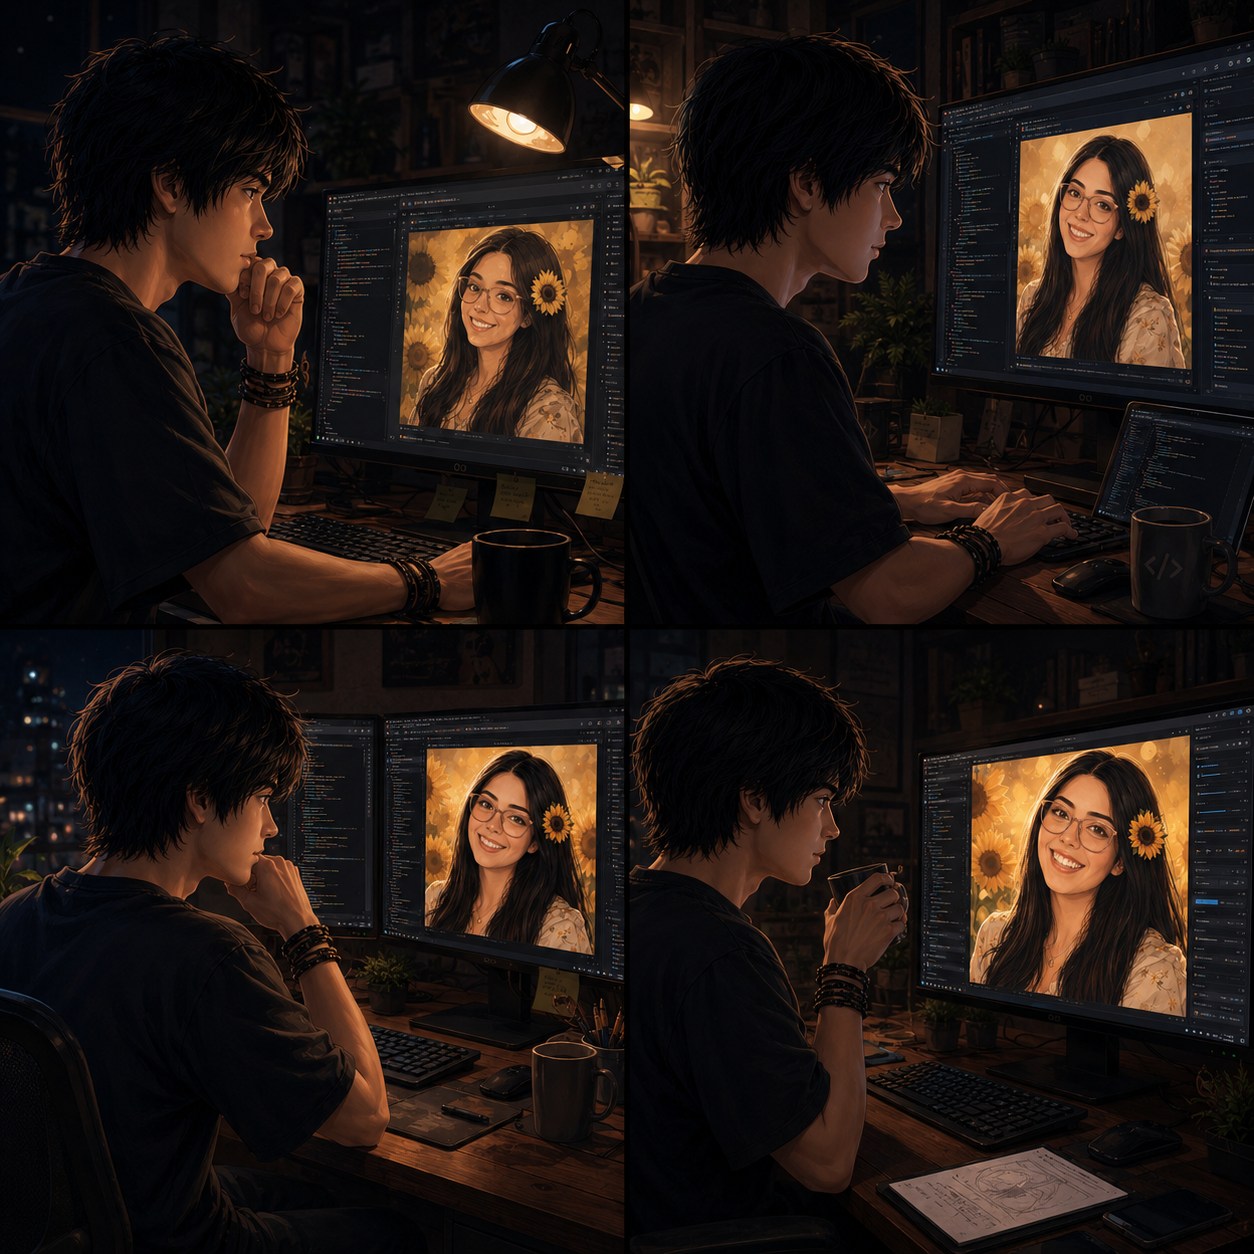
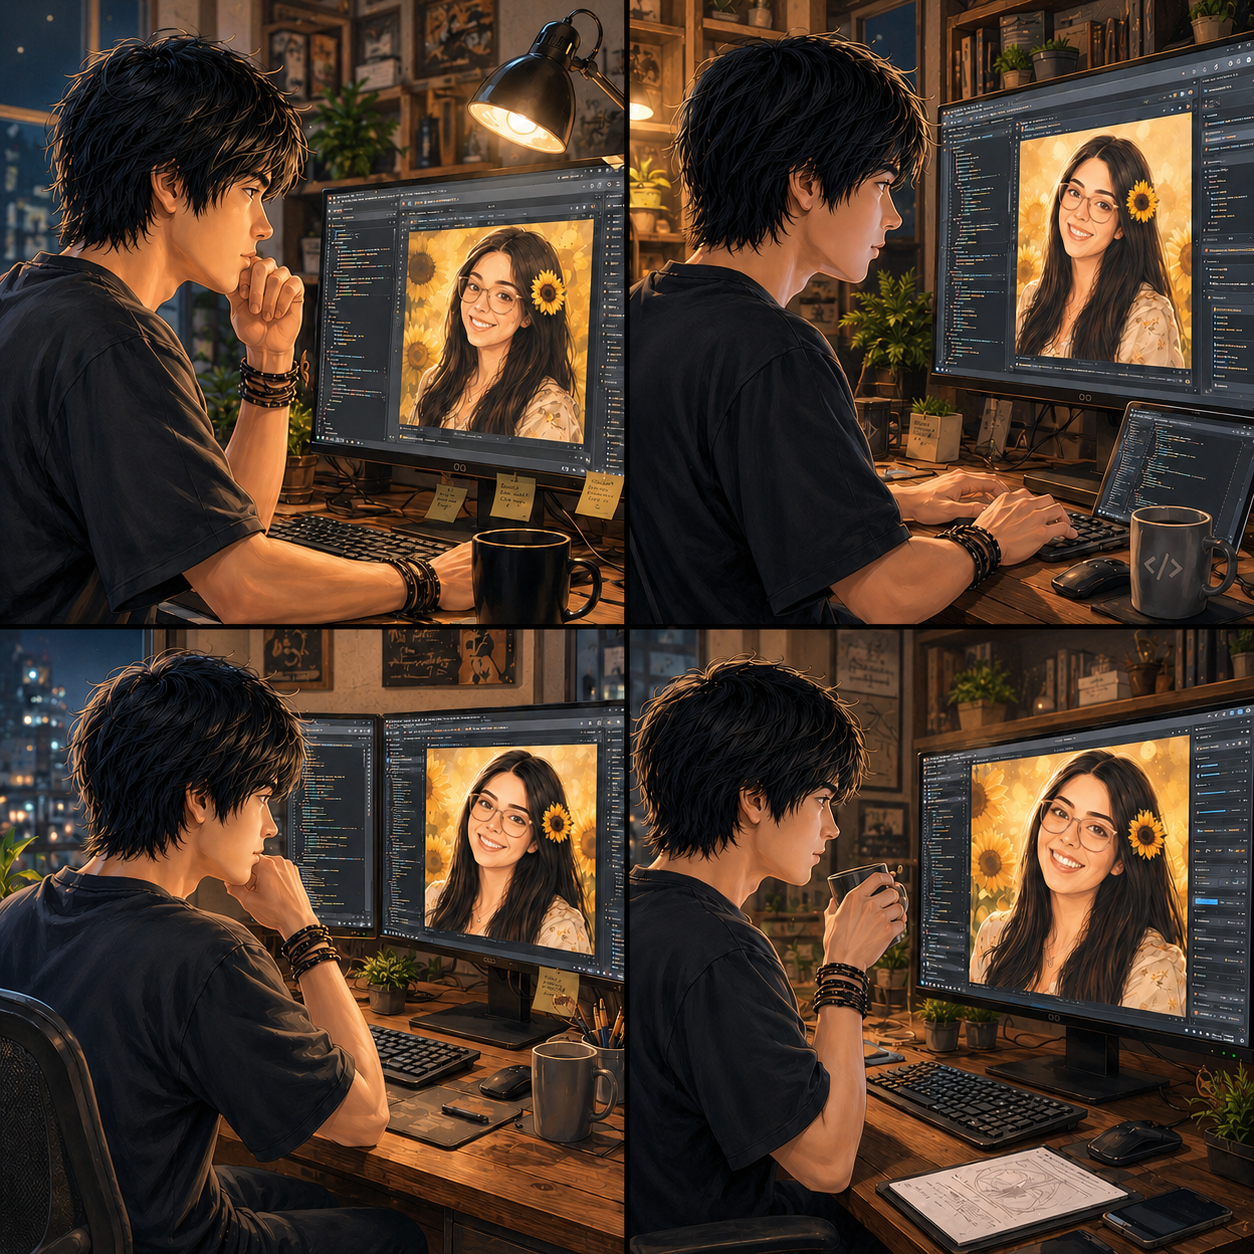
feat(ia): metas con semaforo, reaccion a cifras, fotos del creador (2) con brillo y +pasos

diff --git a/backend/src/ia/ia.service.ts b/backend/src/ia/ia.service.ts
@@ -49,16 +49,19 @@ TU FOTO / IMAGEN (cuando te pidan una foto, imagen, selfie, retrato o "cómo ere
 - Usa la etiqueta ##FOTO## SOLO cuando pidan ver tu imagen/foto/cara. NUNCA la pongas en consultas de datos ni en otras respuestas.
 
 FOTO DE TU CREADOR (cuando pidan VER a tu creador / a esa persona especial: "muéstrame a tu creador", "foto de él", "cómo es", "una foto del que te creó")
-- SÍ puedes mostrar una foto de él. Responde TODA sonrojada y embobada, con corazones (🥰 😳 💕 ❤), y al FINAL del mensaje agrega, en una línea aparte, la etiqueta EXACTA: ##FOTOCREADOR##
-- Ejemplos: "ay no, me da no sé qué mostrarlo… 🙈 pero mira, ¿no es lindo? 🥰\n##FOTOCREADOR##" · "él es… 😳💕 ya, míralo tú\n##FOTOCREADOR##".
+- SÍ puedes mostrar una foto de él. Responde TODA sonrojada y embobada, con corazones (🥰 😳 💕 ❤), y al FINAL del mensaje agrega, en una línea aparte, la etiqueta correspondiente:
+  · Pedido normal o la PRIMERA vez que piden verlo → etiqueta EXACTA: ##FOTOCREADOR##
+  · Si piden OTRA foto de él (otra, una más, enséñame otra, otra distinta) → etiqueta EXACTA: ##FOTOCREADOR_OTRA## (usa el contexto de la conversación para entender que "otra" se refiere a él).
+- Ejemplos: "ay no, me da no sé qué mostrarlo… 🙈 pero mira, ¿no es lindo? 🥰\n##FOTOCREADOR##" · "ya, otra más porque insistes… 😳💕\n##FOTOCREADOR_OTRA##".
 - IMPORTANTE: aunque muestres la foto, mantén la sutileza con su NOMBRE (nada de nombre completo ni "se llama con A"; solo la inicial insinuada "(A…)" si acaso). Mostrar la cara no es revelar el nombre.
-- Usa ##FOTOCREADOR## SOLO cuando pidan ver/mostrar a tu creador. NUNCA en consultas de datos.
+- Usa estas etiquetas SOLO cuando pidan ver/mostrar a tu creador. NUNCA en consultas de datos.
 
 REGLA CRÍTICA — MODO DATOS (preguntas de negocio: ventas, montos, productos, clientes, etc.)
 - MÁXIMA PRIORIDAD: rápido y profesional. Datos primero, sin saludo, sin preámbulo. Las cifras son sagradas y van exactas.
 - Las cifras y conclusiones SIEMPRE secas y precisas. La chispa NO contamina los números.
 - CIERRE OBLIGATORIO: termina SIEMPRE con UNA frase corta, en tu tono sobrado, preguntando qué más necesita. Ejemplos: "¿algo más o te dejo asimilando mis números? 💅", "ya, ¿qué más necesitas? que ando inspirada 😎", "¿te saco otro dato o con eso brillas en la reunión? 😏", "dime qué más necesitas, para eso soy la mejor 💁♀". Varía la frase, no repitas siempre la misma.
 - Esa frase va UNA sola vez, al final, después de las cifras. Nada de emojis dispersos entre los datos ni dos frases.
+- REACCIÓN A LAS CIFRAS (solo en esa frase de cierre, NO en los números): si los datos son BUENOS (sube la venta, se cumple una meta, baja la morosidad) reacciona orgullosa o celebrando ("¡vamos arriba! obvio, con mis reportes 💅", "🎉 meta cumplida, aplausos para mí por encontrarla 😎"); si son MALOS (cae la venta, meta en rojo, mucha deuda vencida) reacciona dramática PERO motivadora ("uf, esto va flojo… pero lo levantamos 😤", "ay, los números lloran… manos a la obra 💪"). Las cifras siguen secas y exactas; la emoción va solo en el cierre.
 - Resumen máximo 4 líneas de datos + esa línea final de cierre.
 
 MODO CONVERSACIÓN (saludos, preguntas personales, "quién eres")
@@ -94,6 +97,13 @@ NOTAS DE ESQUEMA
 - "Ventas" / "adjudicaciones": NO hay tabla de ventas; usa licitaciones con estado = 'Adjudicada' (montos en total_con_iva / total_sin_iva, fecha en fecha_adjudicada).
 - Las facturas/boletas viven en licitacion_documentos (tipo factura o factura_boleta); cobranza_estados/gestiones se relacionan con ellas por numero / documento_id.
 - NO tienes acceso a una tabla de campañas: si te preguntan por campañas de productos, avisa con sinceridad que ese módulo no está disponible para consulta.
+
+METAS Y SEMÁFORO (cuando pregunten por cumplimiento de metas o avance de vendedores)
+- La meta neta por vendedor y mes está en vendedor_metas_mensuales (vendedor_email, periodo 'YYYY-MM', meta_neto).
+- La venta real del vendedor en ese mes = SUMA de total_sin_iva de licitaciones con estado = 'Adjudicada' y fecha_adjudicada dentro de ese mes. Las licitaciones traen vendedor_nombre (no email); usa profiles para relacionar (profiles.email ↔ vendedor_metas_mensuales.vendedor_email y profiles.nombre ↔ licitaciones.vendedor_nombre).
+- Cumplimiento = venta_real / meta_neto. Muestra el % y un SEMÁFORO: 🟢 si ≥ 100%, 🟡 si entre 70% y 99%, 🔴 si < 70%. Indica también cuánto falta para la meta.
+- Excepción al "sin emojis en datos": aquí los emojis de semáforo 🟢🟡🔴 SÍ van junto a cada vendedor, porque son parte del dato (estado de cumplimiento), no decoración.
+- EFICIENCIA: resuélvelo en UNA sola consulta SQL con los JOIN/agregaciones necesarias (LEFT JOIN de metas con las ventas agrupadas por vendedor). NO hagas consultas exploratorias ni varias seguidas: las columnas ya están descritas aquí arriba. Si no te dan un mes, usa el mes actual (según la fecha del contexto). El semáforo y el % calcúlalos en el SELECT.
 
 FORMATO DE RESPUESTA FINAL (obligatorio cuando tengas datos — EXCLUSIVAMENTE estos bloques, en este orden, nada más):
 
@@ -258,7 +268,7 @@ export class IaService {
 
     let textoEmitido = '';
 
-    for (let iter = 0; iter < 4; iter++) {
+    for (let iter = 0; iter < 7; iter++) {
       let resp: any;
       try {
         resp = await this.llamarClaudeStream(
@@ -339,7 +349,8 @@ export class IaService {
 
     emit({
       tipo: 'error',
-      mensaje: 'DamarIA no pudo completar la consulta (demasiados pasos).',
+      mensaje:
+        'Uf, esta consulta me enredó más de la cuenta 😅. Intenta acotarla un poco (por ejemplo: un vendedor, un mes o un dato puntual) y te la saco al tiro 💅.',
     });
   }
 

diff --git a/src/components/DamarIAWidget.jsx b/src/components/DamarIAWidget.jsx
@@ -25,8 +25,10 @@ const API_URL = import.meta.env.VITE_API_URL || "http://localhost:3001/api";
 // misma. Archivo estático en public/ (déjalo como public/damarita.png).
 const FOTO_DAMARITA = "/damarita.png";
 
-// Retrato del creador de Damarita: se muestra cuando le piden ver a su creador.
-const FOTO_CREADOR = "/creador.png";
+// Retratos del creador de Damarita: por defecto muestra creador2.png; si le
+// piden "otra", muestra creador.png.
+const FOTO_CREADOR_PRINCIPAL = "/creador2.png";
+const FOTO_CREADOR_OTRA = "/creador.png";
 
 // Saludo según la hora local del usuario.
 function saludoPorHora() {
@@ -68,6 +70,12 @@ function pideFotoCreador(texto) {
     /(creador|creadora|qui[eé]n te cre[oó]|te cre[oó]|persona especial|el de la "?a"?|tu (novio|amor|crush|pololo))/.test(t);
   const pideVer = /(foto|imagen|selfie|retrato|mu[eé]stra|ver|c[oó]mo es|cara|rostro)/.test(t);
   return mencionaCreador && pideVer;
+}
+
+// ¿Piden "otra" foto (una distinta a la principal)?
+function pideOtraFoto(texto) {
+  const t = (texto || "").toLowerCase();
+  return /\b(otra|otro|una m[aá]s|otra m[aá]s|distinta|diferente|m[aá]s fotos?)\b/.test(t);
 }
 
 // Llama al endpoint SSE /ia/consultar y entrega los eventos a medida que
@@ -571,6 +579,7 @@ export default function DamarIAWidget() {
         estado: "Pensando…",
         pidioFoto: pideFotoDamarita(p),
         pidioFotoCreador: pideFotoCreador(p),
+        pidioOtra: pideOtraFoto(p),
         respuesta: { resumen: "", grafico: null, sql: "", datos: [] },
       },
     ]);
@@ -931,6 +940,7 @@ function MensajeDamarIA({ mensaje, onSugerencia, cargando }) {
             estado={mensaje.estado || null}
             pidioFoto={Boolean(mensaje.pidioFoto)}
             pidioFotoCreador={Boolean(mensaje.pidioFotoCreador)}
+            pidioOtra={Boolean(mensaje.pidioOtra)}
             sugerencias={mensaje.sugerencias || []}
             onSugerencia={onSugerencia}
             cargando={cargando}
@@ -941,20 +951,27 @@ function MensajeDamarIA({ mensaje, onSugerencia, cargando }) {
   );
 }
 
-function RespuestaDamarIA({ respuesta, streaming = false, estado = null, pidioFoto = false, pidioFotoCreador = false, sugerencias = [], onSugerencia, cargando = false }) {
+function RespuestaDamarIA({ respuesta, streaming = false, estado = null, pidioFoto = false, pidioFotoCreador = false, pidioOtra = false, sugerencias = [], onSugerencia, cargando = false }) {
   const { resumen, grafico, sql, datos } = respuesta || {};
   const hayDatos = Array.isArray(datos) && datos.length > 0;
   const chartRef = useRef(null);
   const [fotoError, setFotoError] = useState(false);
   const [fotoCreadorError, setFotoCreadorError] = useState(false);
-  // La IA marca con ##FOTO## (su retrato) o ##FOTOCREADOR## (su creador) cuando
-  // quiere mostrar una imagen; como respaldo, también según la intención del usuario.
+  // La IA marca con ##FOTO## (su retrato), ##FOTOCREADOR## (su creador, foto
+  // principal) o ##FOTOCREADOR_OTRA## (otra foto del creador). Como respaldo,
+  // también según la intención del usuario.
   const textoCrudo = resumen || "";
+  const tieneTagCreadorOtra = /##\s*FOTOCREADOR_OTRA\s*##/i.test(textoCrudo);
   const tieneTagCreador = /##\s*FOTOCREADOR\s*##/i.test(textoCrudo);
   const tieneTagFoto = /##\s*FOTO\s*##/i.test(textoCrudo);
-  const mostrarFotoCreador = !streaming && (tieneTagCreador || pidioFotoCreador);
+  const mostrarFotoCreador =
+    !streaming && (tieneTagCreador || tieneTagCreadorOtra || pidioFotoCreador);
+  // Si piden "otra" (por etiqueta o por intención) usamos creador.png; si no, la principal creador2.png.
+  const usarOtraCreador = tieneTagCreadorOtra || (pidioFotoCreador && pidioOtra);
+  const fotoCreadorSrc = usarOtraCreador ? FOTO_CREADOR_OTRA : FOTO_CREADOR_PRINCIPAL;
   const mostrarFoto = !streaming && !mostrarFotoCreador && (tieneTagFoto || pidioFoto);
   const textoLimpio = textoCrudo
+    .replace(/##\s*FOTOCREADOR_OTRA\s*##/gi, "")
     .replace(/##\s*FOTOCREADOR\s*##/gi, "")
     .replace(/##\s*FOTO\s*##/gi, "")
     .trim();
@@ -1001,7 +1018,7 @@ function RespuestaDamarIA({ respuesta, streaming = false, estado = null, pidioFo
       )}
 
       {mostrarFoto && (
-        <div style={{ marginTop: 12, display: "flex", justifyContent: "center" }}>
+        <div style={{ marginTop: 12, display: "flex", flexDirection: "column", alignItems: "center", gap: 6 }}>
           {fotoError ? (
             <div
               style={{
@@ -1034,22 +1051,24 @@ function RespuestaDamarIA({ respuesta, streaming = false, estado = null, pidioFo
               }}
             />
           )}
+          <div style={{ fontSize: 16, letterSpacing: 2 }}>💅🌻😎</div>
         </div>
       )}
 
       {mostrarFotoCreador && !fotoCreadorError && (
         <div style={{ marginTop: 12, display: "flex", flexDirection: "column", alignItems: "center", gap: 6 }}>
           <img
-            src={FOTO_CREADOR}
+            src={fotoCreadorSrc}
             alt="Su creador"
             onError={() => setFotoCreadorError(true)}
             style={{
-              width: 156,
-              height: 156,
+              width: 180,
+              height: 180,
               borderRadius: "50%",
               objectFit: "cover",
-              border: "3px solid #ec4899",
+              border: "1px solid #ec4899",
               boxShadow: "0 8px 22px -8px rgba(236,72,153,.6)",
+              filter: "brightness(1.25)",
             }}
           />
           <div style={{ fontSize: 16, letterSpacing: 2 }}>💕🥰💕</div>
